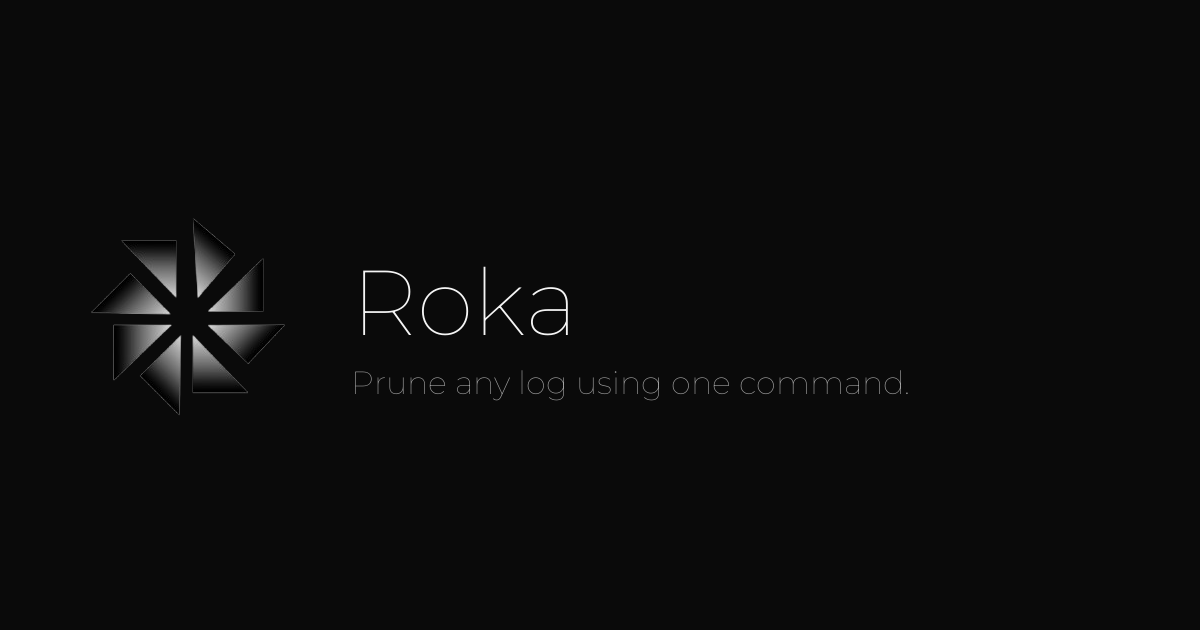
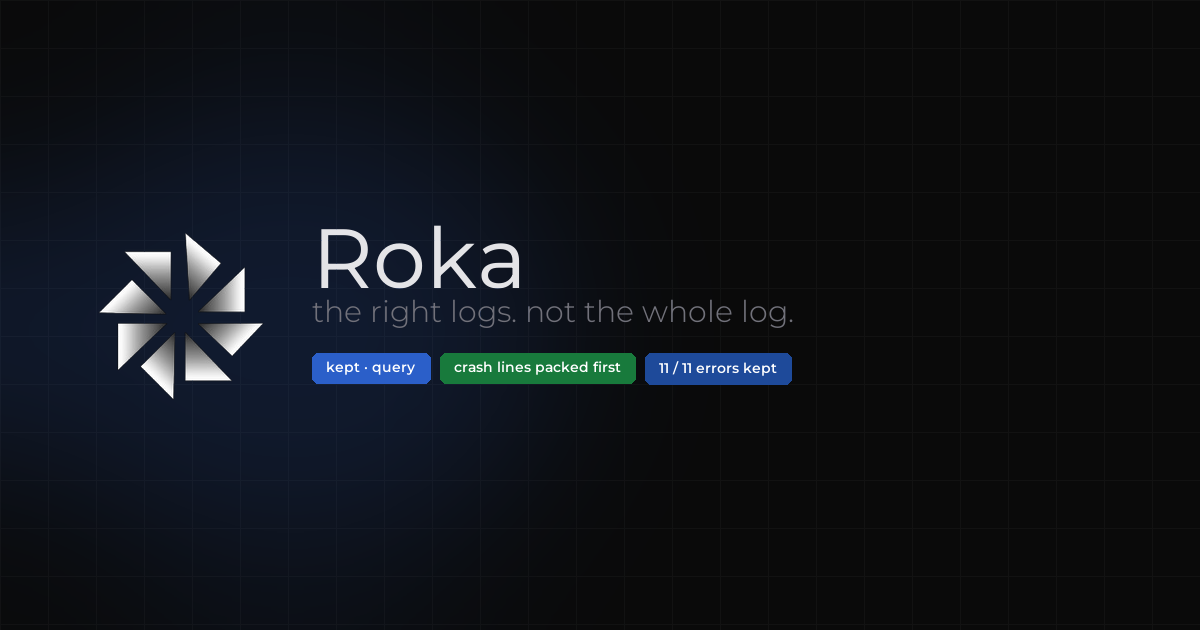
Refresh the link-share poster to the current site type, signal, and headline.

Changed region(s): [[0.0, 0.2413, 0.6783, 0.8143], [0.7092, 0.6032, 0.74, 0.6333]]

diff --git a/index.html b/index.html
@@ -15,7 +15,7 @@
     <meta name="description" content="Roka selects the log lines an AI coding agent needs — crash evidence, query matches, and why they stayed. Local, inspectable, budgeted.">
     <meta property="og:title" content="Roka — the right logs. not the whole log.">
     <meta property="og:description" content="Roka selects the log lines an AI coding agent needs — crash evidence, query matches, and why they stayed. Local, inspectable, budgeted.">
-    <meta property="og:image" content="https://www.roka-prune.com/assets/images/og.png">
+    <meta property="og:image" content="https://www.roka-prune.com/assets/images/og.png?v=2">
     <meta property="og:image:width" content="1200">
     <meta property="og:image:height" content="630">
     <meta property="og:url" content="https://www.roka-prune.com/">
@@ -78,7 +78,7 @@
       "name": "Roka",
       "description": "Selects relevant log lines for AI coding agents. Query-aware, inspectable, local.",
       "url": "https://www.roka-prune.com/",
-      "image": "https://www.roka-prune.com/assets/images/og.png",
+      "image": "https://www.roka-prune.com/assets/images/og.png?v=2",
       "brand": {
         "@id": "https://www.roka-prune.com/#organization"
       },
@@ -100,7 +100,7 @@
     <meta name="twitter:card" content="summary_large_image">
     <meta name="twitter:title" content="Roka — the right logs. not the whole log.">
     <meta name="twitter:description" content="Roka selects the log lines an AI coding agent needs — crash evidence, query matches, and why they stayed. Local, inspectable, budgeted.">
-    <meta name="twitter:image" content="https://www.roka-prune.com/assets/images/og.png">
+    <meta name="twitter:image" content="https://www.roka-prune.com/assets/images/og.png?v=2">
     <script src="/assets/js/theme-boot.js"></script>
     <script src="https://cdn.tailwindcss.com"></script>
     <script>

diff --git a/dashboard-app/dashboard/api-keys.html b/dashboard-app/dashboard/api-keys.html
@@ -7,7 +7,7 @@
     <meta name="description" content="Create, list, and revoke Roka Pro API keys for CLI semantic ranking and MCP connect, serve, and watch. Keys stay on your machine except for status checks.">
     <meta property="og:title" content="API Keys — Roka">
     <meta property="og:description" content="Create, list, and revoke Roka Pro API keys for CLI semantic ranking and MCP connect, serve, and watch. Keys stay on your machine except for status checks.">
-    <meta property="og:image" content="https://www.roka-prune.com/assets/images/og.png">
+    <meta property="og:image" content="https://www.roka-prune.com/assets/images/og.png?v=2">
     <meta property="og:image:width" content="1200">
     <meta property="og:image:height" content="630">
     <meta property="og:url" content="https://www.roka-prune.com/dashboard/api-keys.html">
@@ -17,7 +17,7 @@
     <meta name="twitter:card" content="summary_large_image">
     <meta name="twitter:title" content="API Keys — Roka">
     <meta name="twitter:description" content="Create, list, and revoke Roka Pro API keys for CLI semantic ranking and MCP connect, serve, and watch. Keys stay on your machine except for status checks.">
-    <meta name="twitter:image" content="https://www.roka-prune.com/assets/images/og.png">
+    <meta name="twitter:image" content="https://www.roka-prune.com/assets/images/og.png?v=2">
     <link rel="icon" type="image/png" sizes="16x16" href="/assets/icons/favicon-16x16.png" />
     <link rel="icon" type="image/png" sizes="32x32" href="/assets/icons/favicon-32x32.png" />
     <link rel="icon" type="image/png" sizes="96x96" href="/assets/icons/favicon-96x96.png" />

diff --git a/dashboard/api-keys.html b/dashboard/api-keys.html
@@ -7,7 +7,7 @@
     <meta name="description" content="Create, list, and revoke Roka Pro API keys for CLI semantic ranking and MCP connect, serve, and watch. Keys stay on your machine except for status checks.">
     <meta property="og:title" content="API Keys — Roka">
     <meta property="og:description" content="Create, list, and revoke Roka Pro API keys for CLI semantic ranking and MCP connect, serve, and watch. Keys stay on your machine except for status checks.">
-    <meta property="og:image" content="https://www.roka-prune.com/assets/images/og.png">
+    <meta property="og:image" content="https://www.roka-prune.com/assets/images/og.png?v=2">
     <meta property="og:image:width" content="1200">
     <meta property="og:image:height" content="630">
     <meta property="og:url" content="https://www.roka-prune.com/dashboard/api-keys.html">
@@ -65,7 +65,7 @@
     <meta name="twitter:card" content="summary_large_image">
     <meta name="twitter:title" content="API Keys — Roka">
     <meta name="twitter:description" content="Create, list, and revoke Roka Pro API keys for CLI semantic ranking and MCP connect, serve, and watch. Keys stay on your machine except for status checks.">
-    <meta name="twitter:image" content="https://www.roka-prune.com/assets/images/og.png">
+    <meta name="twitter:image" content="https://www.roka-prune.com/assets/images/og.png?v=2">
     <link rel="icon" type="image/png" sizes="16x16" href="/assets/icons/favicon-16x16.png" />
     <link rel="icon" type="image/png" sizes="32x32" href="/assets/icons/favicon-32x32.png" />
     <link rel="icon" type="image/png" sizes="96x96" href="/assets/icons/favicon-96x96.png" />

diff --git a/testing.html b/testing.html
@@ -9,7 +9,7 @@
     <meta name="description" content="Run Roka against real LogHub production logs from Android, HPC, and cloud systems. Inspect pruned context, compression, and whether every error is retained.">
     <meta property="og:title" content="Testing — Roka">
     <meta property="og:description" content="Run Roka against real LogHub production logs from Android, HPC, and cloud systems. Inspect pruned context, compression, and whether every error is retained.">
-    <meta property="og:image" content="https://www.roka-prune.com/assets/images/og.png">
+    <meta property="og:image" content="https://www.roka-prune.com/assets/images/og.png?v=2">
     <meta property="og:image:width" content="1200">
     <meta property="og:image:height" content="630">
     <meta property="og:url" content="https://www.roka-prune.com/testing.html">
@@ -67,7 +67,7 @@
     <meta name="twitter:card" content="summary_large_image">
     <meta name="twitter:title" content="Testing — Roka">
     <meta name="twitter:description" content="Run Roka against real LogHub production logs from Android, HPC, and cloud systems. Inspect pruned context, compression, and whether every error is retained.">
-    <meta name="twitter:image" content="https://www.roka-prune.com/assets/images/og.png">
+    <meta name="twitter:image" content="https://www.roka-prune.com/assets/images/og.png?v=2">
     <link rel="icon" type="image/png" sizes="16x16" href="/assets/icons/favicon-16x16.png" />
     <link rel="icon" type="image/png" sizes="32x32" href="/assets/icons/favicon-32x32.png" />
     <link rel="icon" type="image/png" sizes="96x96" href="/assets/icons/favicon-96x96.png" />

diff --git a/dashboard-app/dashboard.html b/dashboard-app/dashboard.html
@@ -7,7 +7,7 @@
     <meta name="description" content="Your Roka dashboard: see plan tier, trial status, and monthly token usage for Pro API keys used by the CLI, playground, and roka-mcp server.">
     <meta property="og:title" content="Dashboard — Roka">
     <meta property="og:description" content="Your Roka dashboard: see plan tier, trial status, and monthly token usage for Pro API keys used by the CLI, playground, and roka-mcp server.">
-    <meta property="og:image" content="https://www.roka-prune.com/assets/images/og.png">
+    <meta property="og:image" content="https://www.roka-prune.com/assets/images/og.png?v=2">
     <meta property="og:image:width" content="1200">
     <meta property="og:image:height" content="630">
     <meta property="og:url" content="https://www.roka-prune.com/dashboard.html">
@@ -17,7 +17,7 @@
     <meta name="twitter:card" content="summary_large_image">
     <meta name="twitter:title" content="Dashboard — Roka">
     <meta name="twitter:description" content="Your Roka dashboard: see plan tier, trial status, and monthly token usage for Pro API keys used by the CLI, playground, and roka-mcp server.">
-    <meta name="twitter:image" content="https://www.roka-prune.com/assets/images/og.png">
+    <meta name="twitter:image" content="https://www.roka-prune.com/assets/images/og.png?v=2">
     <link rel="icon" type="image/png" sizes="16x16" href="/assets/icons/favicon-16x16.png" />
     <link rel="icon" type="image/png" sizes="32x32" href="/assets/icons/favicon-32x32.png" />
     <link rel="icon" type="image/png" sizes="96x96" href="/assets/icons/favicon-96x96.png" />

diff --git a/docs/benchmark.html b/docs/benchmark.html
@@ -8,7 +8,7 @@
     <meta name="description" content="LogHub MVP benchmark for Roka: 92.2% of lines removed, 69× compression, and 11/11 injected errors retained on real production logs — not synthetic toys.">
     <meta property="og:title" content="Benchmark — Roka Docs">
     <meta property="og:description" content="LogHub MVP benchmark for Roka: 92.2% of lines removed, 69× compression, and 11/11 injected errors retained on real production logs — not synthetic toys.">
-    <meta property="og:image" content="https://www.roka-prune.com/assets/images/og.png">
+    <meta property="og:image" content="https://www.roka-prune.com/assets/images/og.png?v=2">
     <meta property="og:image:width" content="1200">
     <meta property="og:image:height" content="630">
     <meta property="og:url" content="https://www.roka-prune.com/docs/benchmark.html">
@@ -66,7 +66,7 @@
     <meta name="twitter:card" content="summary_large_image">
     <meta name="twitter:title" content="Benchmark — Roka Docs">
     <meta name="twitter:description" content="LogHub MVP benchmark for Roka: 92.2% of lines removed, 69× compression, and 11/11 injected errors retained on real production logs — not synthetic toys.">
-    <meta name="twitter:image" content="https://www.roka-prune.com/assets/images/og.png">
+    <meta name="twitter:image" content="https://www.roka-prune.com/assets/images/og.png?v=2">
     <link rel="icon" type="image/png" sizes="32x32" href="/assets/icons/favicon-32x32.png" />
     <link rel="stylesheet" href="/assets/fonts/montserrat.css">
     <link rel="stylesheet" href="/docs/docs.css">

diff --git a/docs/cli.html b/docs/cli.html
@@ -8,7 +8,7 @@
     <meta name="description" content="Roka CLI usage: pipe stdin or point at a file, set --query and --budget, write pruned context to stdout, and optionally pass a Pro API key for semantic rank.">
     <meta property="og:title" content="CLI usage — Roka Docs">
     <meta property="og:description" content="Roka CLI usage: pipe stdin or point at a file, set --query and --budget, write pruned context to stdout, and optionally pass a Pro API key for semantic rank.">
-    <meta property="og:image" content="https://www.roka-prune.com/assets/images/og.png">
+    <meta property="og:image" content="https://www.roka-prune.com/assets/images/og.png?v=2">
     <meta property="og:image:width" content="1200">
     <meta property="og:image:height" content="630">
     <meta property="og:url" content="https://www.roka-prune.com/docs/cli.html">
@@ -66,7 +66,7 @@
     <meta name="twitter:card" content="summary_large_image">
     <meta name="twitter:title" content="CLI usage — Roka Docs">
     <meta name="twitter:description" content="Roka CLI usage: pipe stdin or point at a file, set --query and --budget, write pruned context to stdout, and optionally pass a Pro API key for semantic rank.">
-    <meta name="twitter:image" content="https://www.roka-prune.com/assets/images/og.png">
+    <meta name="twitter:image" content="https://www.roka-prune.com/assets/images/og.png?v=2">
     <link rel="icon" type="image/png" sizes="32x32" href="/assets/icons/favicon-32x32.png" />
     <link rel="stylesheet" href="/assets/fonts/montserrat.css">
     <link rel="stylesheet" href="/docs/docs.css">

diff --git a/docs/pipeline.html b/docs/pipeline.html
@@ -8,7 +8,7 @@
     <meta name="description" content="How Roka pruning works locally: collapse near-duplicate lines, force-keep errors and traces, then pack into a character budget without uploading logs.">
     <meta property="og:title" content="How pruning works — Roka Docs">
     <meta property="og:description" content="How Roka pruning works locally: collapse near-duplicate lines, force-keep errors and traces, then pack into a character budget without uploading logs.">
-    <meta property="og:image" content="https://www.roka-prune.com/assets/images/og.png">
+    <meta property="og:image" content="https://www.roka-prune.com/assets/images/og.png?v=2">
     <meta property="og:image:width" content="1200">
     <meta property="og:image:height" content="630">
     <meta property="og:url" content="https://www.roka-prune.com/docs/pipeline.html">
@@ -66,7 +66,7 @@
     <meta name="twitter:card" content="summary_large_image">
     <meta name="twitter:title" content="How pruning works — Roka Docs">
     <meta name="twitter:description" content="How Roka pruning works locally: collapse near-duplicate lines, force-keep errors and traces, then pack into a character budget without uploading logs.">
-    <meta name="twitter:image" content="https://www.roka-prune.com/assets/images/og.png">
+    <meta name="twitter:image" content="https://www.roka-prune.com/assets/images/og.png?v=2">
     <link rel="icon" type="image/png" sizes="32x32" href="/assets/icons/favicon-32x32.png" />
     <link rel="stylesheet" href="/assets/fonts/montserrat.css">
     <link rel="stylesheet" href="/docs/docs.css">

diff --git a/docs/tools.html b/docs/tools.html
@@ -8,7 +8,7 @@
     <meta name="description" content="MCP tools prune_logs, prune_file, and prune_tail: required arguments, default 4000-character budget, return shape, and the crash regex that is always kept.">
     <meta property="og:title" content="MCP tools — Roka Docs">
     <meta property="og:description" content="MCP tools prune_logs, prune_file, and prune_tail: required arguments, default 4000-character budget, return shape, and the crash regex that is always kept.">
-    <meta property="og:image" content="https://www.roka-prune.com/assets/images/og.png">
+    <meta property="og:image" content="https://www.roka-prune.com/assets/images/og.png?v=2">
     <meta property="og:image:width" content="1200">
     <meta property="og:image:height" content="630">
     <meta property="og:url" content="https://www.roka-prune.com/docs/tools.html">
@@ -66,7 +66,7 @@
     <meta name="twitter:card" content="summary_large_image">
     <meta name="twitter:title" content="MCP tools — Roka Docs">
     <meta name="twitter:description" content="MCP tools prune_logs, prune_file, and prune_tail: required arguments, default 4000-character budget, return shape, and the crash regex that is always kept.">
-    <meta name="twitter:image" content="https://www.roka-prune.com/assets/images/og.png">
+    <meta name="twitter:image" content="https://www.roka-prune.com/assets/images/og.png?v=2">
     <link rel="icon" type="image/png" sizes="32x32" href="/assets/icons/favicon-32x32.png" />
     <link rel="stylesheet" href="/assets/fonts/montserrat.css">
     <link rel="stylesheet" href="/docs/docs.css">

diff --git a/docs/mcp.html b/docs/mcp.html
@@ -8,7 +8,7 @@
     <meta name="description" content="Connect roka-mcp to Claude Code, Cursor, Codex, Copilot, Windsurf, VS Code, or Cline. npx registers the stdio server; Pro API key required for serve.">
     <meta property="og:title" content="Connect an agent — Roka Docs">
     <meta property="og:description" content="Connect roka-mcp to Claude Code, Cursor, Codex, Copilot, Windsurf, VS Code, or Cline. npx registers the stdio server; Pro API key required for serve.">
-    <meta property="og:image" content="https://www.roka-prune.com/assets/images/og.png">
+    <meta property="og:image" content="https://www.roka-prune.com/assets/images/og.png?v=2">
     <meta property="og:image:width" content="1200">
     <meta property="og:image:height" content="630">
     <meta property="og:url" content="https://www.roka-prune.com/docs/mcp.html">
@@ -66,7 +66,7 @@
     <meta name="twitter:card" content="summary_large_image">
     <meta name="twitter:title" content="Connect an agent — Roka Docs">
     <meta name="twitter:description" content="Connect roka-mcp to Claude Code, Cursor, Codex, Copilot, Windsurf, VS Code, or Cline. npx registers the stdio server; Pro API key required for serve.">
-    <meta name="twitter:image" content="https://www.roka-prune.com/assets/images/og.png">
+    <meta name="twitter:image" content="https://www.roka-prune.com/assets/images/og.png?v=2">
     <link rel="icon" type="image/png" sizes="32x32" href="/assets/icons/favicon-32x32.png" />
     <link rel="stylesheet" href="/assets/fonts/montserrat.css">
     <link rel="stylesheet" href="/docs/docs.css">

diff --git a/docs/terms.html b/docs/terms.html
@@ -8,7 +8,7 @@
     <meta name="description" content="Docs copy of Roka terms of use: service description, acceptable use, MIT-licensed CLI and MCP repos, liability limits, and contact for legal questions.">
     <meta property="og:title" content="Terms of Use — Roka Docs">
     <meta property="og:description" content="Docs copy of Roka terms of use: service description, acceptable use, MIT-licensed CLI and MCP repos, liability limits, and contact for legal questions.">
-    <meta property="og:image" content="https://www.roka-prune.com/assets/images/og.png">
+    <meta property="og:image" content="https://www.roka-prune.com/assets/images/og.png?v=2">
     <meta property="og:image:width" content="1200">
     <meta property="og:image:height" content="630">
     <meta property="og:url" content="https://www.roka-prune.com/docs/terms.html">
@@ -66,7 +66,7 @@
     <meta name="twitter:card" content="summary_large_image">
     <meta name="twitter:title" content="Terms of Use — Roka Docs">
     <meta name="twitter:description" content="Docs copy of Roka terms of use: service description, acceptable use, MIT-licensed CLI and MCP repos, liability limits, and contact for legal questions.">
-    <meta name="twitter:image" content="https://www.roka-prune.com/assets/images/og.png">
+    <meta name="twitter:image" content="https://www.roka-prune.com/assets/images/og.png?v=2">
     <link rel="icon" type="image/png" sizes="32x32" href="/assets/icons/favicon-32x32.png" />
     <link rel="stylesheet" href="/assets/fonts/montserrat.css">
     <link rel="stylesheet" href="/docs/docs.css">

diff --git a/login.html b/login.html
@@ -7,7 +7,7 @@
     <meta name="description" content="Create a Roka account to manage Pro API keys, view token usage, and unlock semantic ranking for log pruning across CLI and MCP agents.">
     <meta property="og:title" content="Sign up — Roka">
     <meta property="og:description" content="Create a Roka account to manage Pro API keys, view token usage, and unlock semantic ranking for log pruning across CLI and MCP agents.">
-    <meta property="og:image" content="https://www.roka-prune.com/assets/images/og.png">
+    <meta property="og:image" content="https://www.roka-prune.com/assets/images/og.png?v=2">
     <meta property="og:image:width" content="1200">
     <meta property="og:image:height" content="630">
     <meta property="og:url" content="https://www.roka-prune.com/login.html">
@@ -65,7 +65,7 @@
     <meta name="twitter:card" content="summary_large_image">
     <meta name="twitter:title" content="Sign up — Roka">
     <meta name="twitter:description" content="Create a Roka account to manage Pro API keys, view token usage, and unlock semantic ranking for log pruning across CLI and MCP agents.">
-    <meta name="twitter:image" content="https://www.roka-prune.com/assets/images/og.png">
+    <meta name="twitter:image" content="https://www.roka-prune.com/assets/images/og.png?v=2">
     <link rel="icon" type="image/png" sizes="16x16" href="/assets/icons/favicon-16x16.png" />
     <link rel="icon" type="image/png" sizes="32x32" href="/assets/icons/favicon-32x32.png" />
     <link rel="icon" type="image/png" sizes="96x96" href="/assets/icons/favicon-96x96.png" />
